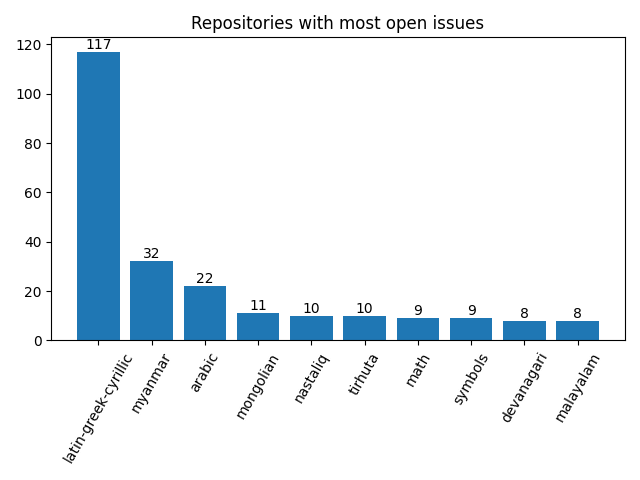
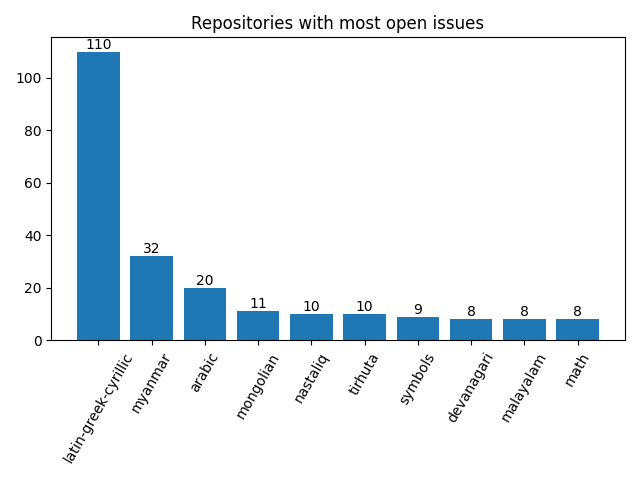
Apply automatic changes

diff --git a/docs/analytics.html b/docs/analytics.html
@@ -109,8 +109,8 @@ td .material-icons { display:inline-flex; vertical-align: top; font-size:1.1rem;
 						</tr>
 						<tr>
 							<td>Sep</td>
-							<td>7</td>
-							<td>36</td>
+							<td>10</td>
+							<td>52</td>
 						</tr>
 					</table>
 				</div>
@@ -130,7 +130,7 @@ td .material-icons { display:inline-flex; vertical-align: top; font-size:1.1rem;
 							<td>
 								<a href="http://github.com/notofonts/latin-greek-cyrillic/issues">latin-greek-cyrillic</a>
 							</td>
-							<td>117</td>
+							<td>110</td>
 						</tr>
 						<tr>
 							<td>
@@ -142,7 +142,7 @@ td .material-icons { display:inline-flex; vertical-align: top; font-size:1.1rem;
 							<td>
 								<a href="http://github.com/notofonts/arabic/issues">arabic</a>
 							</td>
-							<td>22</td>
+							<td>20</td>
 						</tr>
 						<tr>
 							<td>
@@ -164,12 +164,6 @@ td .material-icons { display:inline-flex; vertical-align: top; font-size:1.1rem;
 						</tr>
 						<tr>
 							<td>
-								<a href="http://github.com/notofonts/math/issues">math</a>
-							</td>
-							<td>9</td>
-						</tr>
-						<tr>
-							<td>
 								<a href="http://github.com/notofonts/symbols/issues">symbols</a>
 							</td>
 							<td>9</td>
@@ -183,6 +177,12 @@ td .material-icons { display:inline-flex; vertical-align: top; font-size:1.1rem;
 						<tr>
 							<td>
 								<a href="http://github.com/notofonts/malayalam/issues">malayalam</a>
+							</td>
+							<td>8</td>
+						</tr>
+						<tr>
+							<td>
+								<a href="http://github.com/notofonts/math/issues">math</a>
 							</td>
 							<td>8</td>
 						</tr>
@@ -201,25 +201,25 @@ td .material-icons { display:inline-flex; vertical-align: top; font-size:1.1rem;
 				<tr>
 					<td>1</td>
 					<td>
-						<a href="http://github.com/notofonts/ahom/issues">ahom</a>,  						<a href="http://github.com/notofonts/bamum/issues">bamum</a>,  						<a href="http://github.com/notofonts/brahmi/issues">brahmi</a>,  						<a href="http://github.com/notofonts/canadian-aboriginal/issues">canadian-aboriginal</a>,  						<a href="http://github.com/notofonts/chorasmian/issues">chorasmian</a>,  						<a href="http://github.com/notofonts/deseret/issues">deseret</a>,  						<a href="http://github.com/notofonts/dogra/issues">dogra</a>,  						<a href="http://github.com/notofonts/duployan/issues">duployan</a>,  						<a href="http://github.com/notofonts/elbasan/issues">elbasan</a>,  						<a href="http://github.com/notofonts/georgian/issues">georgian</a>,  						<a href="http://github.com/notofonts/gunjala-gondi/issues">gunjala-gondi</a>,  						<a href="http://github.com/notofonts/hanunoo/issues">hanunoo</a>,  						<a href="http://github.com/notofonts/kharoshthi/issues">kharoshthi</a>,  						<a href="http://github.com/notofonts/khmer/issues">khmer</a>,  						<a href="http://github.com/notofonts/khojki/issues">khojki</a>,  						<a href="http://github.com/notofonts/khudawadi/issues">khudawadi</a>,  						<a href="http://github.com/notofonts/lydian/issues">lydian</a>,  						<a href="http://github.com/notofonts/manichaean/issues">manichaean</a>,  						<a href="http://github.com/notofonts/meetei-mayek/issues">meetei-mayek</a>,  						<a href="http://github.com/notofonts/miao/issues">miao</a>,  						<a href="http://github.com/notofonts/multani/issues">multani</a>,  						<a href="http://github.com/notofonts/music/issues">music</a>,  						<a href="http://github.com/notofonts/nko/issues">nko</a>,  						<a href="http://github.com/notofonts/old-hungarian-ui/issues">old-hungarian-ui</a>,  						<a href="http://github.com/notofonts/old-italic/issues">old-italic</a>,  						<a href="http://github.com/notofonts/pahawh-hmong/issues">pahawh-hmong</a>,  						<a href="http://github.com/notofonts/rejang/issues">rejang</a>,  						<a href="http://github.com/notofonts/saurashtra/issues">saurashtra</a>,  						<a href="http://github.com/notofonts/sign-writing/issues">sign-writing</a>,  						<a href="http://github.com/notofonts/sogdian/issues">sogdian</a>,  						<a href="http://github.com/notofonts/tai-le/issues">tai-le</a>,  						<a href="http://github.com/notofonts/tai-tham/issues">tai-tham</a>,  						<a href="http://github.com/notofonts/takri/issues">takri</a>,  						<a href="http://github.com/notofonts/tangsa/issues">tangsa</a>,  						<a href="http://github.com/notofonts/thai/issues">thai</a> 
+						<a href="http://github.com/notofonts/bamum/issues">bamum</a>,  						<a href="http://github.com/notofonts/brahmi/issues">brahmi</a>,  						<a href="http://github.com/notofonts/canadian-aboriginal/issues">canadian-aboriginal</a>,  						<a href="http://github.com/notofonts/coptic/issues">coptic</a>,  						<a href="http://github.com/notofonts/deseret/issues">deseret</a>,  						<a href="http://github.com/notofonts/dogra/issues">dogra</a>,  						<a href="http://github.com/notofonts/duployan/issues">duployan</a>,  						<a href="http://github.com/notofonts/elbasan/issues">elbasan</a>,  						<a href="http://github.com/notofonts/georgian/issues">georgian</a>,  						<a href="http://github.com/notofonts/gunjala-gondi/issues">gunjala-gondi</a>,  						<a href="http://github.com/notofonts/hanunoo/issues">hanunoo</a>,  						<a href="http://github.com/notofonts/kharoshthi/issues">kharoshthi</a>,  						<a href="http://github.com/notofonts/khmer/issues">khmer</a>,  						<a href="http://github.com/notofonts/khojki/issues">khojki</a>,  						<a href="http://github.com/notofonts/khudawadi/issues">khudawadi</a>,  						<a href="http://github.com/notofonts/lydian/issues">lydian</a>,  						<a href="http://github.com/notofonts/manichaean/issues">manichaean</a>,  						<a href="http://github.com/notofonts/meetei-mayek/issues">meetei-mayek</a>,  						<a href="http://github.com/notofonts/miao/issues">miao</a>,  						<a href="http://github.com/notofonts/multani/issues">multani</a>,  						<a href="http://github.com/notofonts/music/issues">music</a>,  						<a href="http://github.com/notofonts/nko/issues">nko</a>,  						<a href="http://github.com/notofonts/old-hungarian-ui/issues">old-hungarian-ui</a>,  						<a href="http://github.com/notofonts/old-italic/issues">old-italic</a>,  						<a href="http://github.com/notofonts/pahawh-hmong/issues">pahawh-hmong</a>,  						<a href="http://github.com/notofonts/rejang/issues">rejang</a>,  						<a href="http://github.com/notofonts/saurashtra/issues">saurashtra</a>,  						<a href="http://github.com/notofonts/sign-writing/issues">sign-writing</a>,  						<a href="http://github.com/notofonts/sogdian/issues">sogdian</a>,  						<a href="http://github.com/notofonts/sundanese/issues">sundanese</a>,  						<a href="http://github.com/notofonts/tai-le/issues">tai-le</a>,  						<a href="http://github.com/notofonts/tai-tham/issues">tai-tham</a>,  						<a href="http://github.com/notofonts/takri/issues">takri</a>,  						<a href="http://github.com/notofonts/tangsa/issues">tangsa</a>,  						<a href="http://github.com/notofonts/thai/issues">thai</a> 
 					</td>
 				</tr>
 				<tr>
 					<td>2</td>
 					<td>
-						<a href="http://github.com/notofonts/old-turkic/issues">old-turkic</a>,  						<a href="http://github.com/notofonts/siddham/issues">siddham</a>,  						<a href="http://github.com/notofonts/sundanese/issues">sundanese</a>,  						<a href="http://github.com/notofonts/tagalog/issues">tagalog</a>,  						<a href="http://github.com/notofonts/tamil/issues">tamil</a>,  						<a href="http://github.com/notofonts/tifinagh/issues">tifinagh</a> 
+						<a href="http://github.com/notofonts/old-turkic/issues">old-turkic</a>,  						<a href="http://github.com/notofonts/siddham/issues">siddham</a>,  						<a href="http://github.com/notofonts/tagalog/issues">tagalog</a>,  						<a href="http://github.com/notofonts/tamil/issues">tamil</a>,  						<a href="http://github.com/notofonts/tifinagh/issues">tifinagh</a> 
 					</td>
 				</tr>
 				<tr>
 					<td>3</td>
 					<td>
-						<a href="http://github.com/notofonts/armenian/issues">armenian</a>,  						<a href="http://github.com/notofonts/balinese/issues">balinese</a>,  						<a href="http://github.com/notofonts/kaithi/issues">kaithi</a>,  						<a href="http://github.com/notofonts/sharada/issues">sharada</a>,  						<a href="http://github.com/notofonts/soyombo/issues">soyombo</a>,  						<a href="http://github.com/notofonts/telugu/issues">telugu</a> 
+						<a href="http://github.com/notofonts/armenian/issues">armenian</a>,  						<a href="http://github.com/notofonts/balinese/issues">balinese</a>,  						<a href="http://github.com/notofonts/batak/issues">batak</a>,  						<a href="http://github.com/notofonts/kaithi/issues">kaithi</a>,  						<a href="http://github.com/notofonts/sharada/issues">sharada</a>,  						<a href="http://github.com/notofonts/soyombo/issues">soyombo</a>,  						<a href="http://github.com/notofonts/telugu/issues">telugu</a> 
 					</td>
 				</tr>
 				<tr>
 					<td>4</td>
 					<td>
-						<a href="http://github.com/notofonts/batak/issues">batak</a>,  						<a href="http://github.com/notofonts/javanese/issues">javanese</a>,  						<a href="http://github.com/notofonts/kawi/issues">kawi</a>,  						<a href="http://github.com/notofonts/modi/issues">modi</a>,  						<a href="http://github.com/notofonts/syriac/issues">syriac</a>,  						<a href="http://github.com/notofonts/tibetan/issues">tibetan</a> 
+						<a href="http://github.com/notofonts/javanese/issues">javanese</a>,  						<a href="http://github.com/notofonts/kawi/issues">kawi</a>,  						<a href="http://github.com/notofonts/modi/issues">modi</a>,  						<a href="http://github.com/notofonts/syriac/issues">syriac</a>,  						<a href="http://github.com/notofonts/tibetan/issues">tibetan</a> 
 					</td>
 				</tr>
 				<tr>
@@ -243,13 +243,13 @@ td .material-icons { display:inline-flex; vertical-align: top; font-size:1.1rem;
 				<tr>
 					<td>8</td>
 					<td>
-						<a href="http://github.com/notofonts/devanagari/issues">devanagari</a>,  						<a href="http://github.com/notofonts/malayalam/issues">malayalam</a> 
+						<a href="http://github.com/notofonts/devanagari/issues">devanagari</a>,  						<a href="http://github.com/notofonts/malayalam/issues">malayalam</a>,  						<a href="http://github.com/notofonts/math/issues">math</a> 
 					</td>
 				</tr>
 				<tr>
 					<td>9</td>
 					<td>
-						<a href="http://github.com/notofonts/math/issues">math</a>,  						<a href="http://github.com/notofonts/symbols/issues">symbols</a> 
+						<a href="http://github.com/notofonts/symbols/issues">symbols</a> 
 					</td>
 				</tr>
 				<tr>
@@ -270,9 +270,9 @@ td .material-icons { display:inline-flex; vertical-align: top; font-size:1.1rem;
 						<tr>
 							<td>1</td>
 							<td>
-									<a href="http://github.com/notofonts/latin-greek-cyrillic/issues">latin-greek-cyrillic</a>: 117, 
+									<a href="http://github.com/notofonts/latin-greek-cyrillic/issues">latin-greek-cyrillic</a>: 110, 
 
-									<a href="http://github.com/notofonts/arabic/issues">arabic</a>: 22, 
+									<a href="http://github.com/notofonts/arabic/issues">arabic</a>: 20, 
 
 									<a href="http://github.com/notofonts/nastaliq/issues">nastaliq</a>: 10, 
 
@@ -318,13 +318,11 @@ td .material-icons { display:inline-flex; vertical-align: top; font-size:1.1rem;
 							<td>
 									<a href="http://github.com/notofonts/mongolian/issues">mongolian</a>: 11, 
 
-									<a href="http://github.com/notofonts/math/issues">math</a>: 9, 
-
 									<a href="http://github.com/notofonts/symbols/issues">symbols</a>: 9, 
 
-									<a href="http://github.com/notofonts/syloti-nagri/issues">syloti-nagri</a>: 5, 
+									<a href="http://github.com/notofonts/math/issues">math</a>: 8, 
 
-									<a href="http://github.com/notofonts/batak/issues">batak</a>: 4, 
+									<a href="http://github.com/notofonts/syloti-nagri/issues">syloti-nagri</a>: 5, 
 
 									<a href="http://github.com/notofonts/javanese/issues">javanese</a>: 4, 
 
@@ -334,11 +332,11 @@ td .material-icons { display:inline-flex; vertical-align: top; font-size:1.1rem;
 
 									<a href="http://github.com/notofonts/tibetan/issues">tibetan</a>: 4, 
 
+									<a href="http://github.com/notofonts/batak/issues">batak</a>: 3, 
+
 									<a href="http://github.com/notofonts/sharada/issues">sharada</a>: 3, 
 
 									<a href="http://github.com/notofonts/siddham/issues">siddham</a>: 2, 
-
-									<a href="http://github.com/notofonts/sundanese/issues">sundanese</a>: 2, 
 
 									<a href="http://github.com/notofonts/tagalog/issues">tagalog</a>: 2, 
 
@@ -347,6 +345,8 @@ td .material-icons { display:inline-flex; vertical-align: top; font-size:1.1rem;
 									<a href="http://github.com/notofonts/bamum/issues">bamum</a>: 1, 
 
 									<a href="http://github.com/notofonts/canadian-aboriginal/issues">canadian-aboriginal</a>: 1, 
+
+									<a href="http://github.com/notofonts/coptic/issues">coptic</a>: 1, 
 
 									<a href="http://github.com/notofonts/duployan/issues">duployan</a>: 1, 
 
@@ -374,6 +374,8 @@ td .material-icons { display:inline-flex; vertical-align: top; font-size:1.1rem;
 
 									<a href="http://github.com/notofonts/sign-writing/issues">sign-writing</a>: 1, 
 
+									<a href="http://github.com/notofonts/sundanese/issues">sundanese</a>: 1, 
+
 									<a href="http://github.com/notofonts/tai-le/issues">tai-le</a>: 1, 
 
 									<a href="http://github.com/notofonts/tai-tham/issues">tai-tham</a>: 1, 
@@ -398,8 +400,6 @@ td .material-icons { display:inline-flex; vertical-align: top; font-size:1.1rem;
 
 									<a href="http://github.com/notofonts/soyombo/issues">soyombo</a>: 3, 
 
-									<a href="http://github.com/notofonts/ahom/issues">ahom</a>: 1, 
-
 									<a href="http://github.com/notofonts/brahmi/issues">brahmi</a>: 1, 
 
 									<a href="http://github.com/notofonts/deseret/issues">deseret</a>: 1, 
@@ -423,8 +423,6 @@ td .material-icons { display:inline-flex; vertical-align: top; font-size:1.1rem;
 									<a href="http://github.com/notofonts/bhaiksuki/issues">bhaiksuki</a>: 5, 
 
 									<a href="http://github.com/notofonts/old-turkic/issues">old-turkic</a>: 2, 
-
-									<a href="http://github.com/notofonts/chorasmian/issues">chorasmian</a>: 1, 
 
 									<a href="http://github.com/notofonts/elbasan/issues">elbasan</a>: 1, 
 
